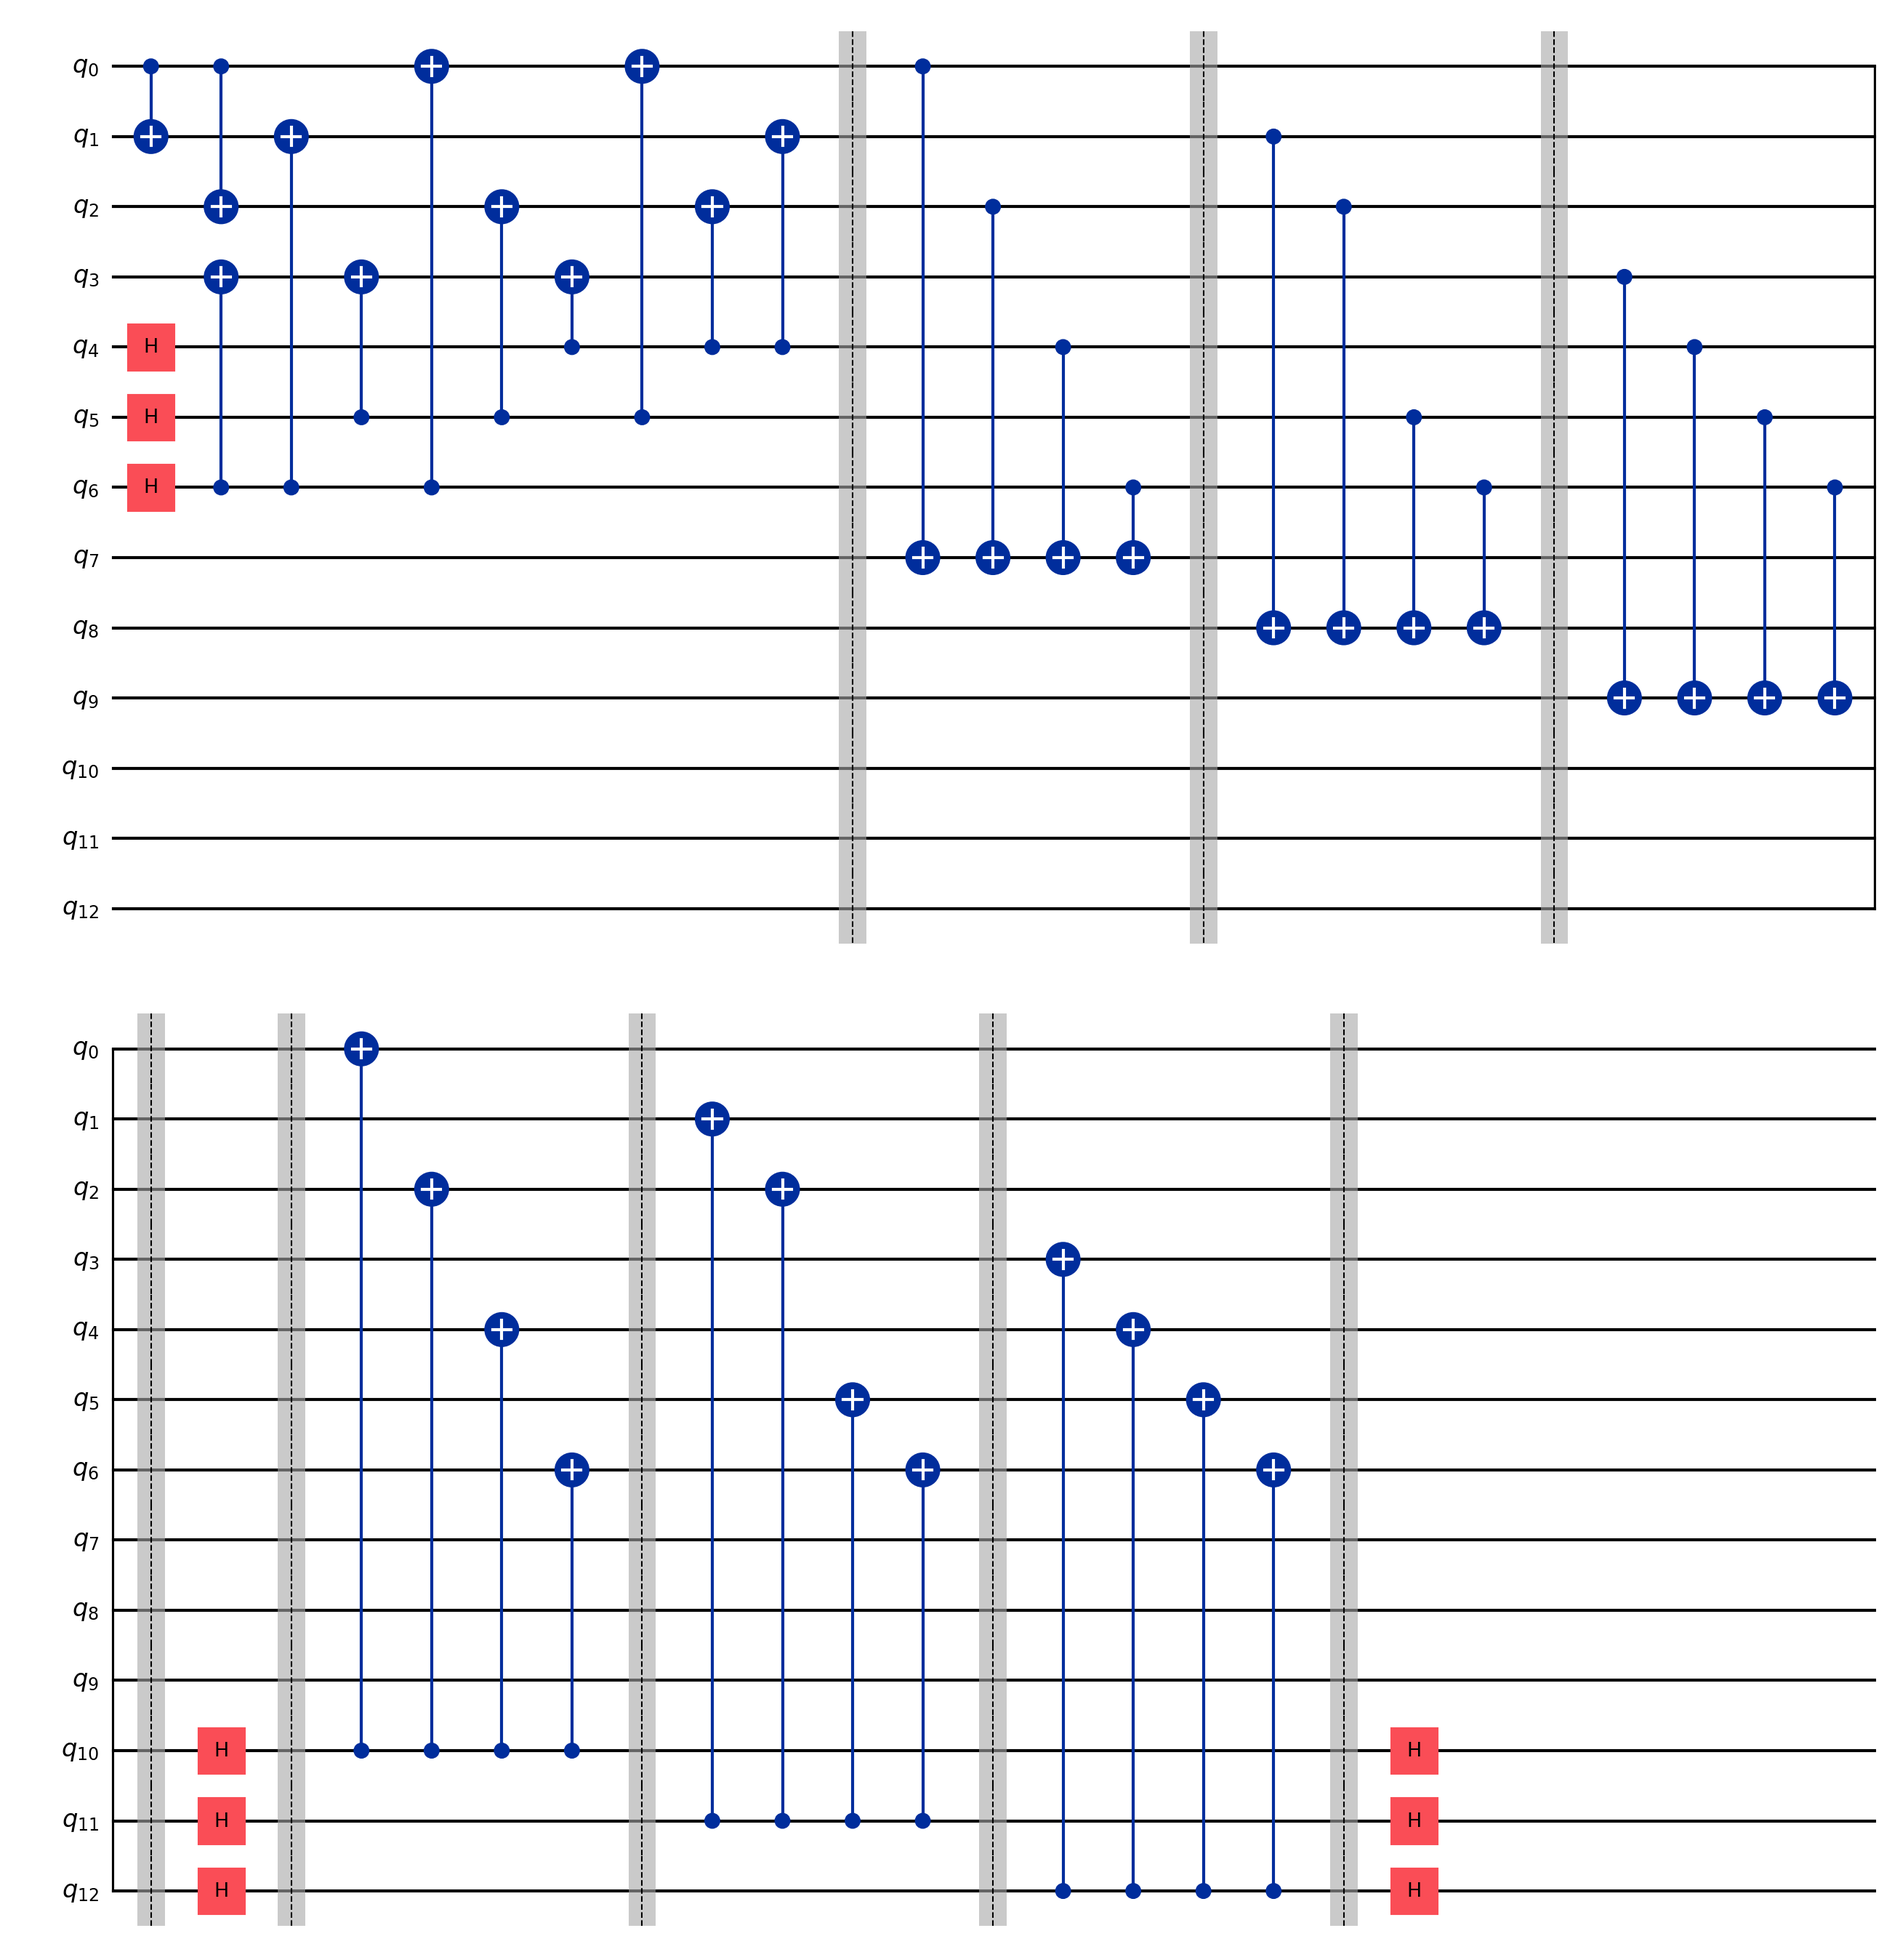
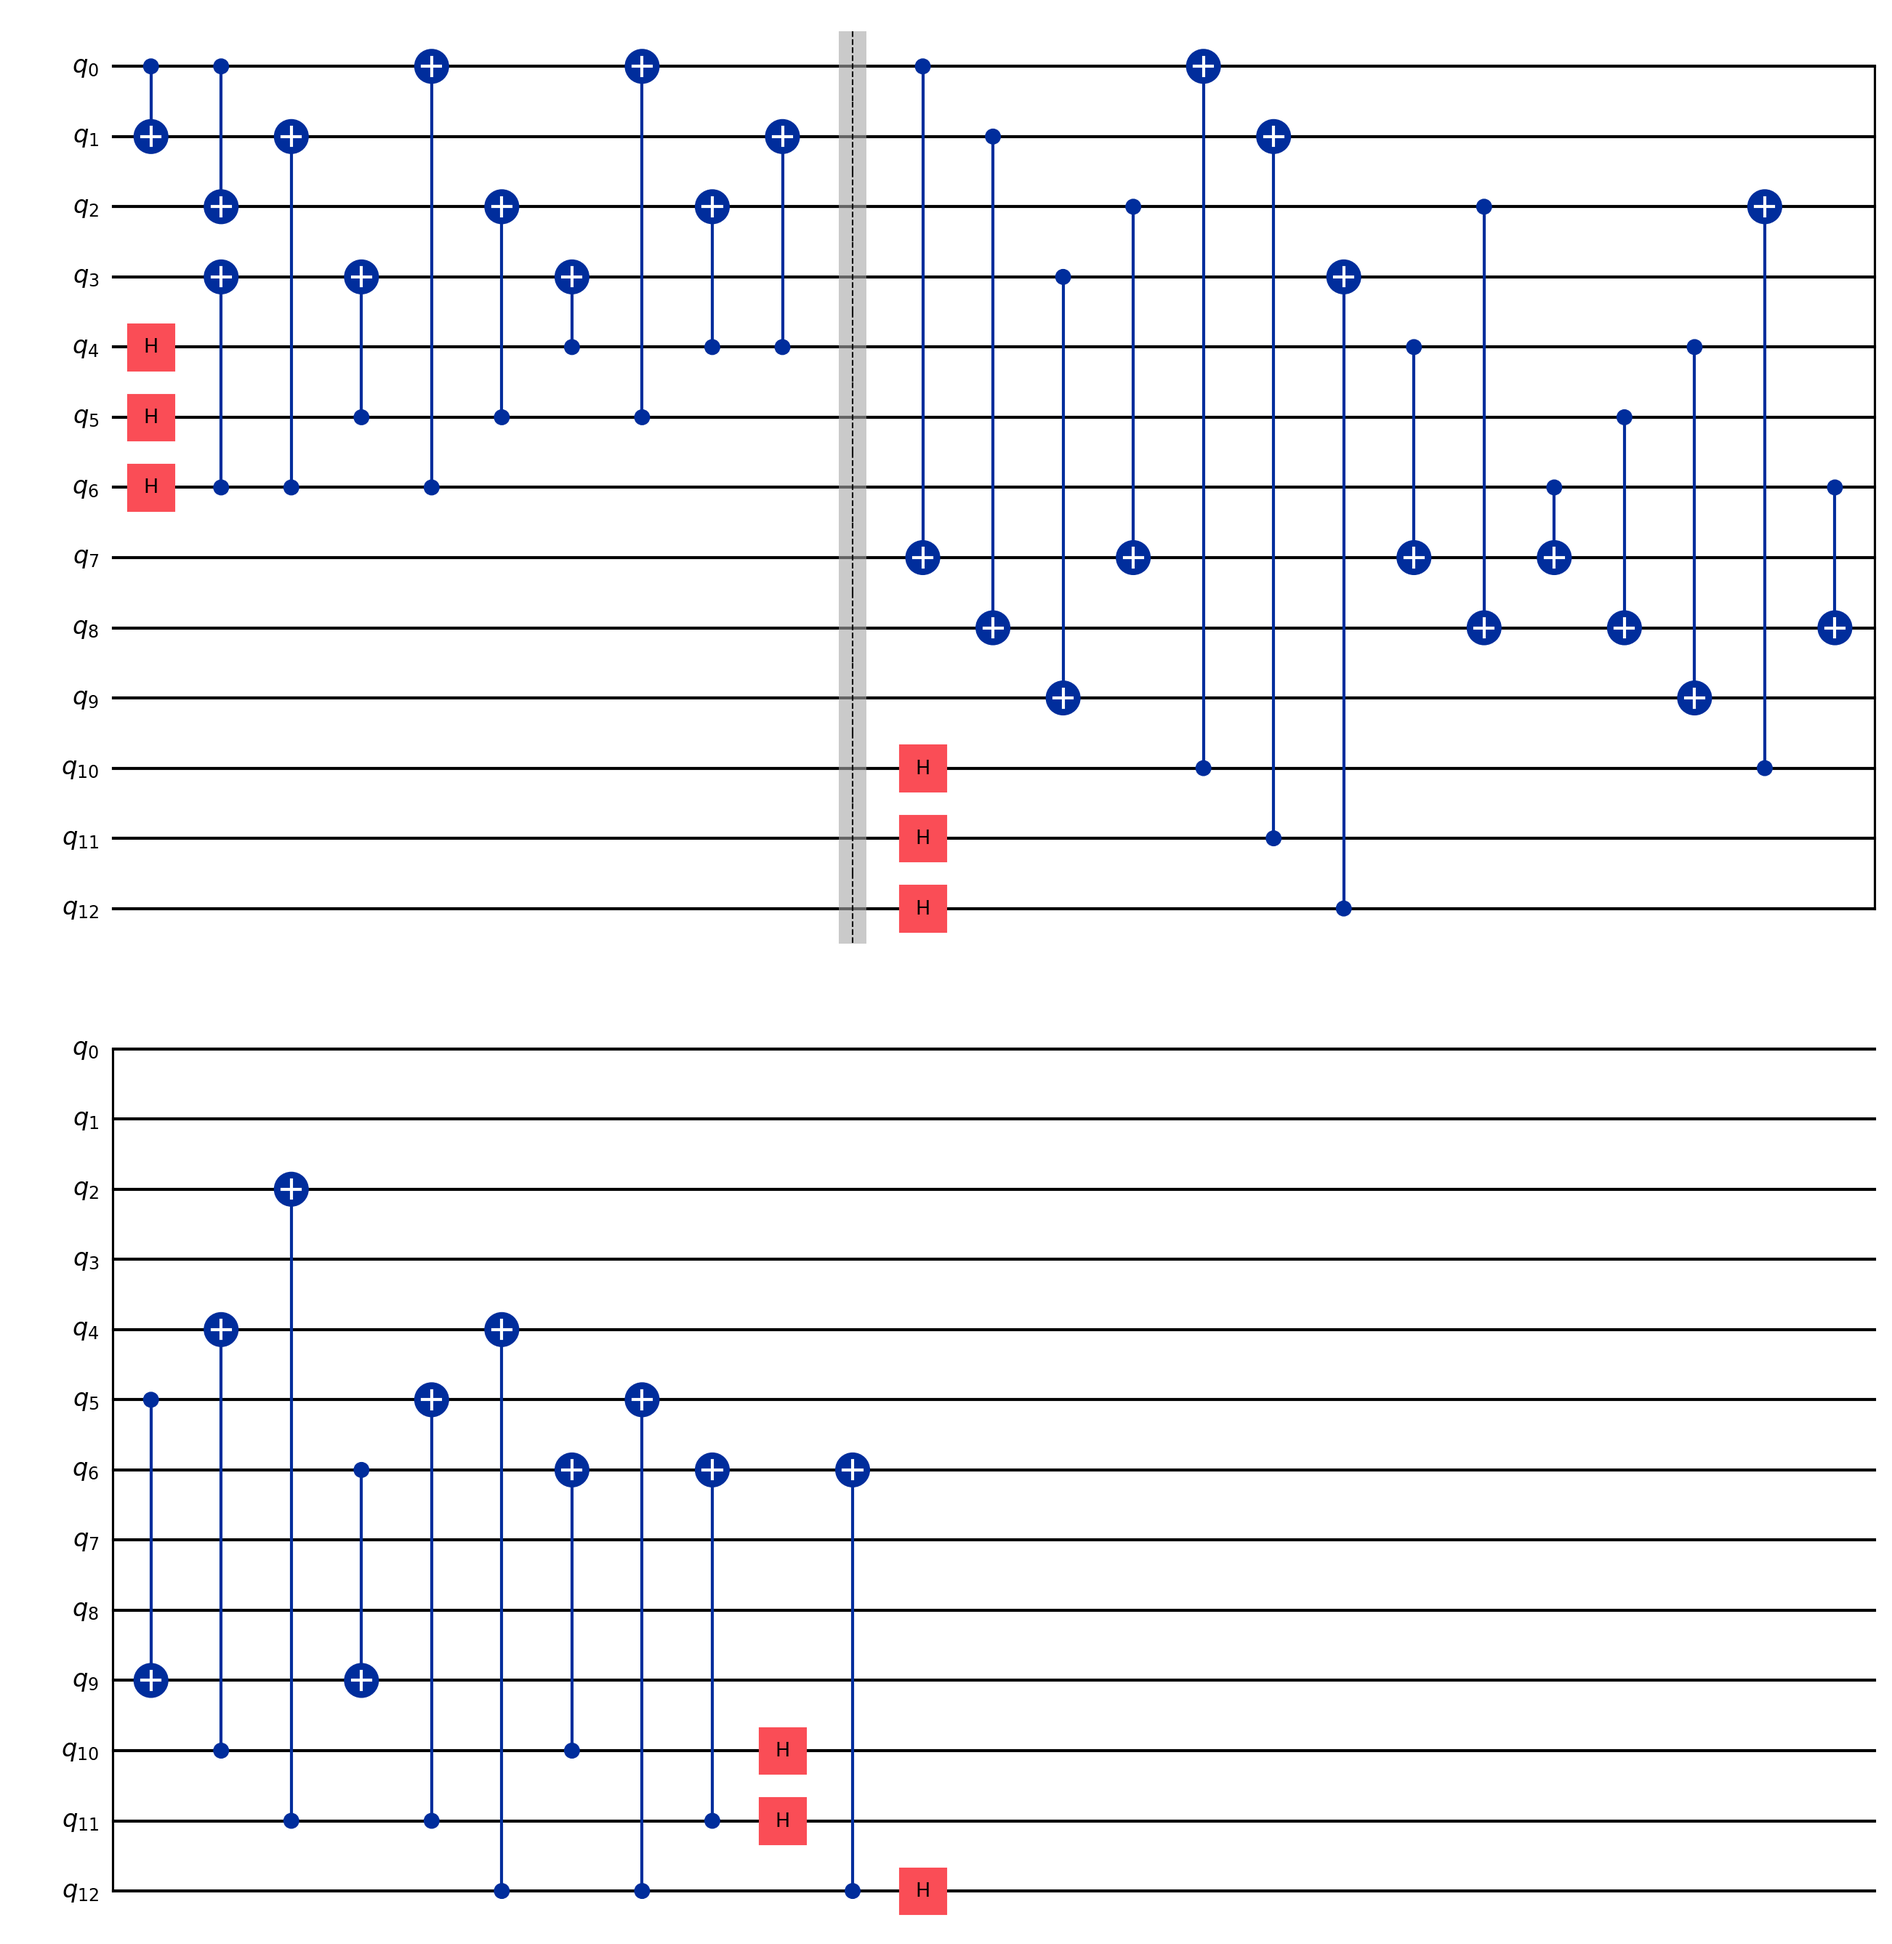
Generate images for Steane Code

diff --git a/scripts/gen_imgs.py b/scripts/gen_imgs.py
@@ -10,7 +10,7 @@ from qecc.nine_qubit_shors_code import (
     get_nine_qubit_shors_code_encoding_circuit,
     get_nine_qubit_shors_code_phase_flip_syndrome_extraction_circuit,
 )
-from qecc.seven_qubit_steane_code import get_seven_qubit_steane_code_encoding_circuit, get_seven_qubit_steane_code_syndrome_extraction_circuit
+from qecc.seven_qubit_steane_code import apply_seven_qubit_steane_code_correction, get_seven_qubit_steane_code_encoding_circuit, get_seven_qubit_steane_code_syndrome_extraction_circuit
 from qecc.three_qubit_bit_flip import apply_three_qubit_bit_flip_correction, get_three_qubit_bit_flip_encoding_decoding_circuit, get_three_qubit_bit_flip_syndrome_extraction_circuit
 from qecc.three_qubit_phase_flip import apply_three_qubit_phase_flip_correction, get_three_qubit_phase_flip_syndrome_extraction_circuit
 
@@ -146,6 +146,23 @@ def seven_qubit_steane_code() -> None:
         inplace=True,
     )
     draw_circuit(qc, out_dir / "syndrome_extraction.png")
+
+    # Error correction
+    qc = QuantumCircuit(QuantumRegister(7 + 3 + 3), ClassicalRegister(3), ClassicalRegister(3))
+    qc.compose(
+        get_seven_qubit_steane_code_encoding_circuit(),
+        qubits=qc.qubits[:7],
+        inplace=True,
+    )
+    qc.barrier()
+    qc.compose(
+        get_seven_qubit_steane_code_syndrome_extraction_circuit(),
+        qubits=qc.qubits[:13],
+        inplace=True,
+    )
+    qc.barrier()
+    apply_seven_qubit_steane_code_correction(qc)
+    draw_circuit(qc, out_dir / "error_correction.png")
 
 
 if __name__ == "__main__":
